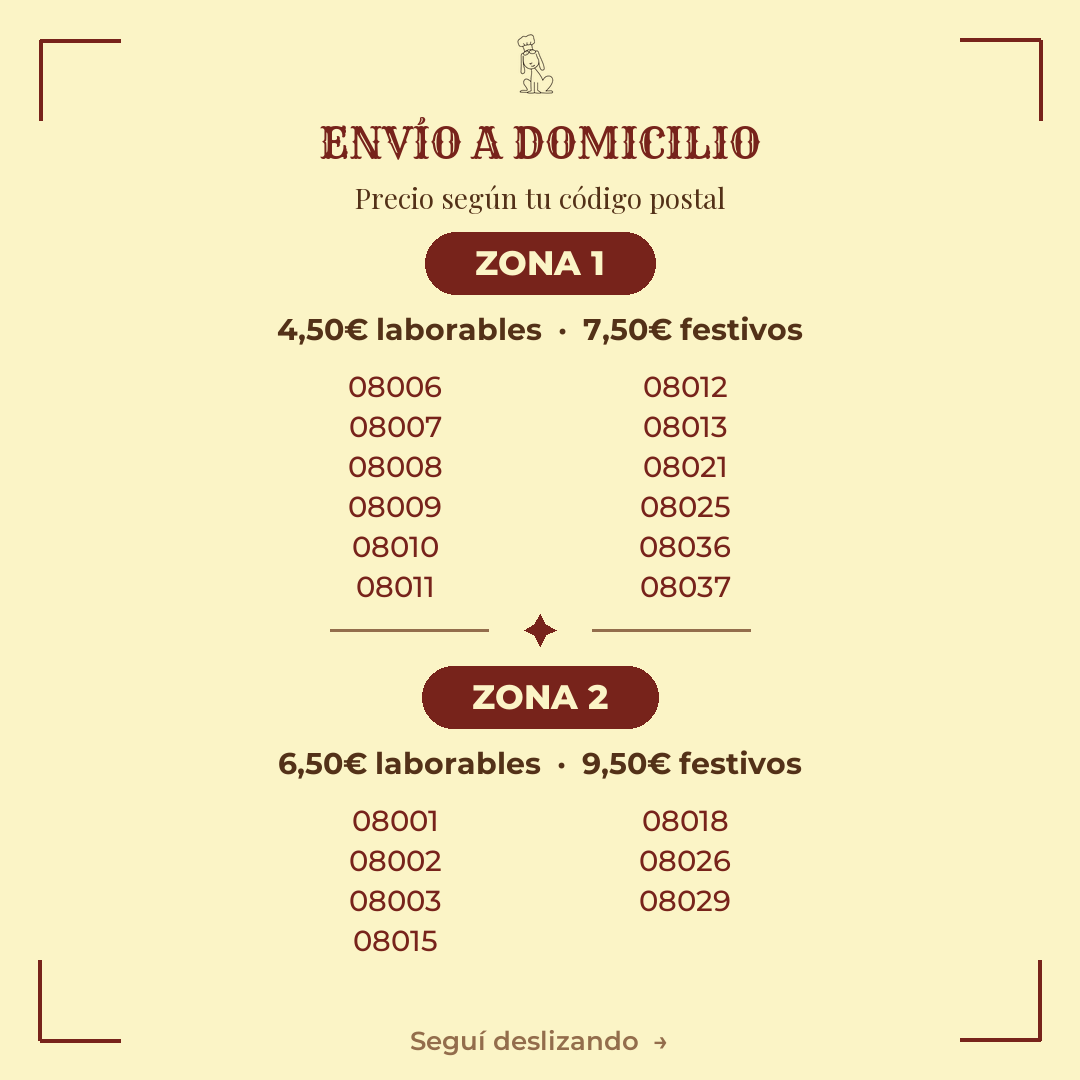
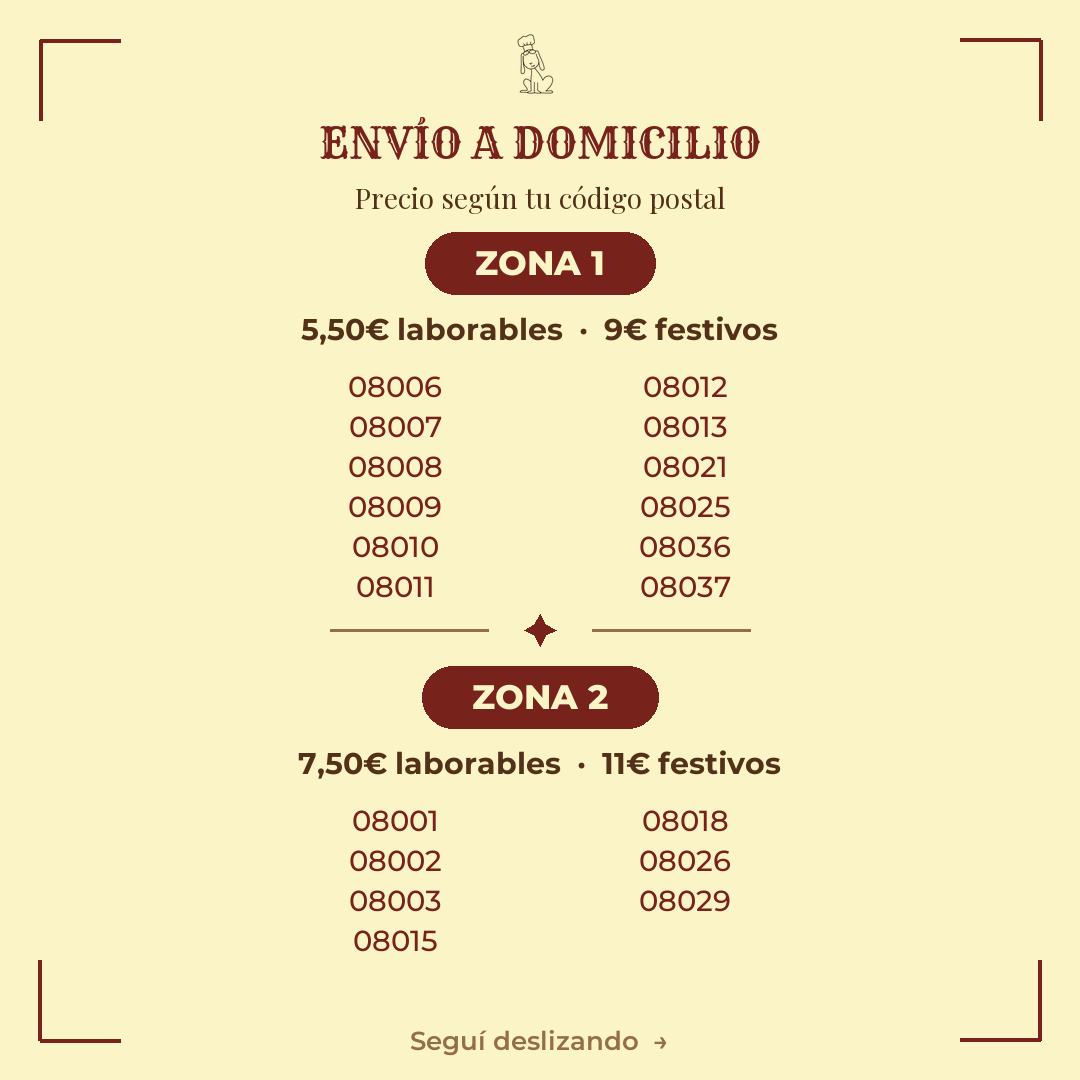
Carrusel envios 1:1: actualizar tarifas a las nuevas de Lamess
Z1 5,50/9 EUR · Z2 7,50/11 · Z3 9/12 · Z4 10/13 (laborables/festivos), segun
lamess.es/tarifas-barcelona. Mismos codigos postales por zona.

Changed region(s): [[0.2444, 0.6722, 0.7333, 0.7333], [0.2444, 0.275, 0.5194, 0.3361], [0.55, 0.275, 0.7333, 0.3361]]

diff --git a/scripts/make_carrusel_envios_1x1.py b/scripts/make_carrusel_envios_1x1.py
@@ -24,13 +24,13 @@ F_PLAY = r"C:/Users/facun/AppData/Local/Temp/PlayfairBlack.ttf"
 F_MONT = r"C:/Users/facun/AppData/Local/Temp/Montserrat.ttf"
 
 ZONAS = {
-    1: ("4,50€", "7,50€", ["08006","08007","08008","08009","08010","08011",
-                            "08012","08013","08021","08025","08036","08037"]),
-    2: ("6,50€", "9,50€", ["08001","08002","08003","08015","08018","08026","08029"]),
-    3: ("7,50€", "10,50€", ["08004","08005","08014","08016","08019",
-                            "08020","08027","08028","08030","08041"]),
-    4: ("8,50€", "11,50€", ["08017","08022","08023","08024","08031",
-                            "08032","08033","08034","08035","08042"]),
+    1: ("5,50€", "9€", ["08006","08007","08008","08009","08010","08011",
+                        "08012","08013","08021","08025","08036","08037"]),
+    2: ("7,50€", "11€", ["08001","08002","08003","08015","08018","08026","08029"]),
+    3: ("9€", "12€", ["08004","08005","08014","08016","08019",
+                      "08020","08027","08028","08030","08041"]),
+    4: ("10€", "13€", ["08017","08022","08023","08024","08031",
+                       "08032","08033","08034","08035","08042"]),
 }
 
 
